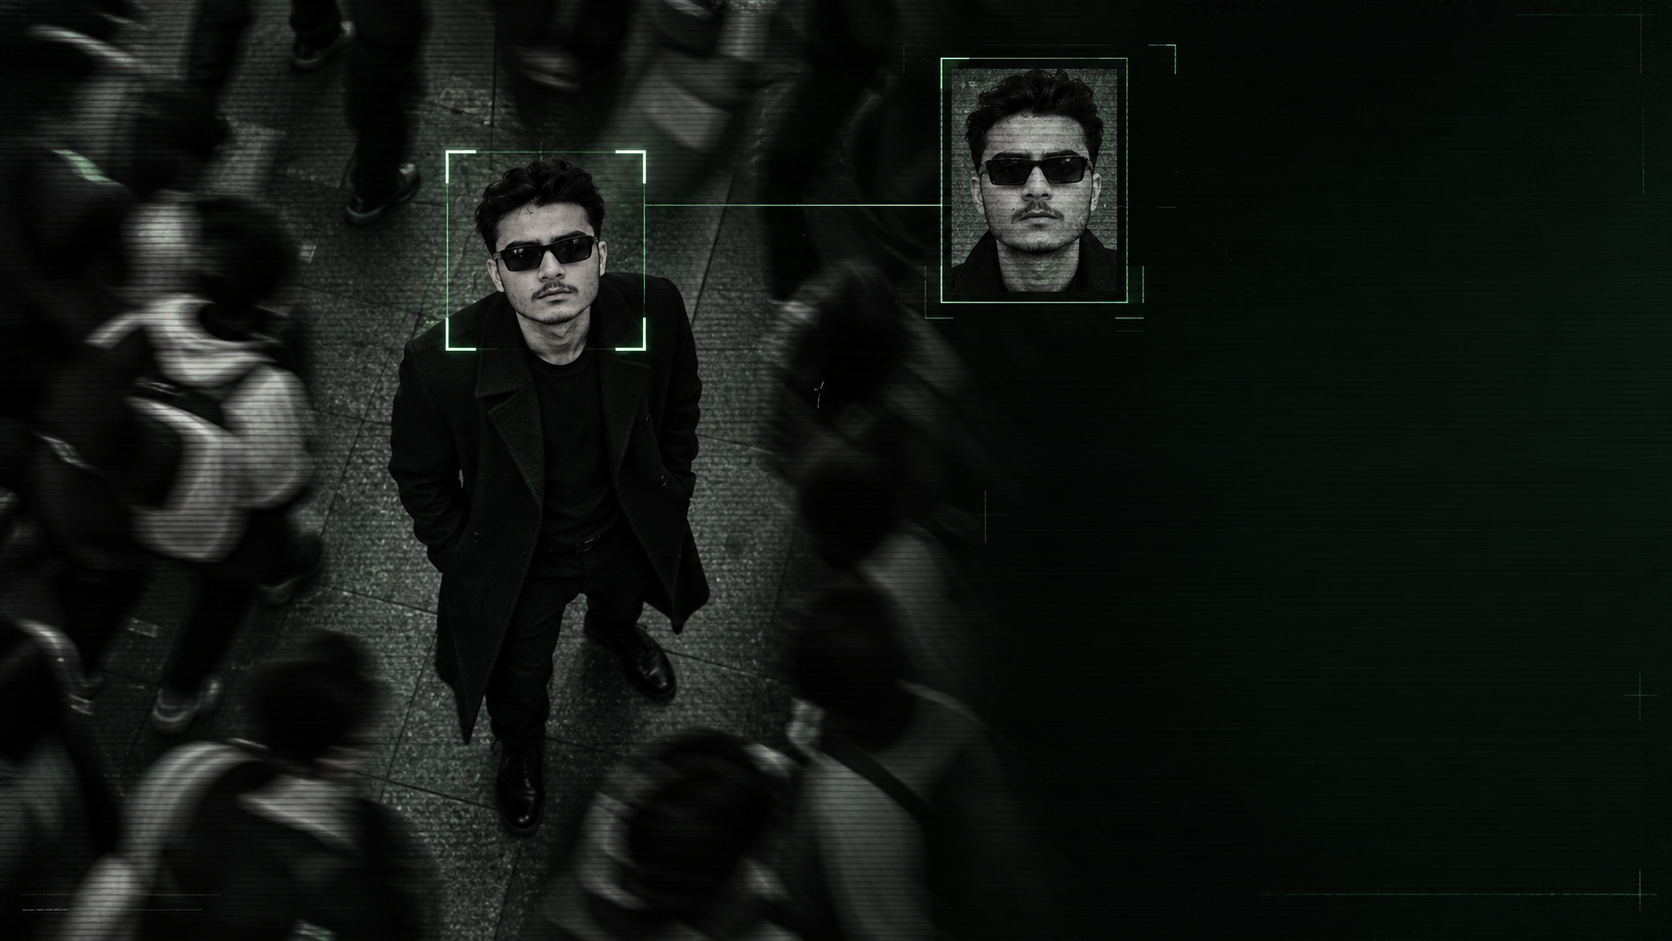
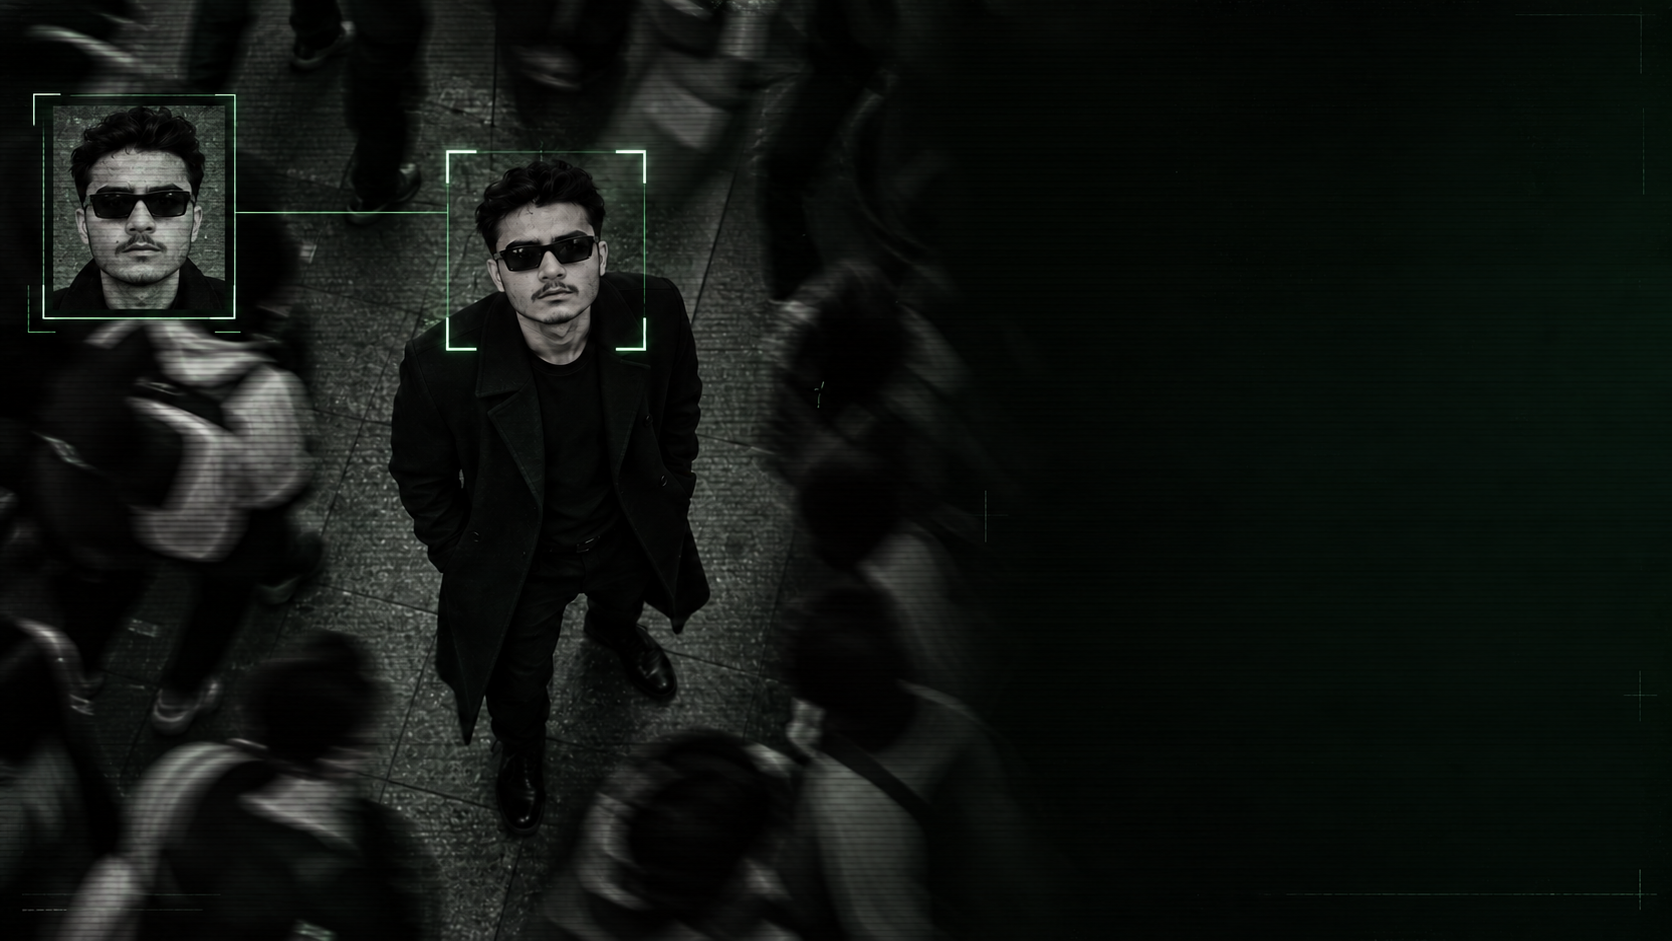
fixed some divs

Changed region(s): [[0.0311, 0.0925, 0.1866, 0.3698], [0.5598, 0.0616, 0.6842, 0.339]]

diff --git a/src/app/projects/ProjectsView.tsx b/src/app/projects/ProjectsView.tsx
@@ -65,29 +65,55 @@ export default function ProjectsView({ variant }: { variant: "desktop" | "mobile
   const [selectedId, setSelectedId] = useState<string | null>(null);
   const selected = projects.find((p) => p.id === selectedId) ?? null;
 
-  return (
-    <div className={variant === "desktop" ? styles.listWrap : styles.mobileListWrap}>
-      {variant === "desktop" && <p className={styles.listEyebrow}>Case files</p>}
+  return variant === "desktop" ? (
+  <div className={styles.desktopLayer}>
+    <div className={styles.listWrap}>
+      <p className={styles.listEyebrow}>Case files</p>
       <ul className={styles.list}>
         {projects.map((project) => (
           <li key={project.id}>
             <button
-              className={`${styles.listItem} ${selectedId === project.id ? styles.listItemActive : ""}`}
-              onClick={() => setSelectedId(selectedId === project.id ? null : project.id)}
+              className={`${styles.listItem} ${
+                selectedId === project.id ? styles.listItemActive : ""
+              }`}
+              onClick={() =>
+                setSelectedId(selectedId === project.id ? null : project.id)
+              }
               aria-expanded={selectedId === project.id}
             >
               {project.name}
             </button>
-            {variant === "mobile" && selectedId === project.id && (
-              <ProjectDetail project={project} onClose={() => setSelectedId(null)} />
-            )}
           </li>
         ))}
       </ul>
-
-      {variant === "desktop" && selected && (
-        <ProjectDetail project={selected} onClose={() => setSelectedId(null)} />
-      )}
     </div>
-  );
+
+    {selected && (
+      <ProjectDetail project={selected} onClose={() => setSelectedId(null)} />
+    )}
+  </div>
+) : (
+  <div className={styles.mobileListWrap}>
+    <ul className={styles.list}>
+      {projects.map((project) => (
+        <li key={project.id}>
+          <button
+            className={`${styles.listItem} ${
+              selectedId === project.id ? styles.listItemActive : ""
+            }`}
+            onClick={() =>
+              setSelectedId(selectedId === project.id ? null : project.id)
+            }
+            aria-expanded={selectedId === project.id}
+          >
+            {project.name}
+          </button>
+          {selectedId === project.id && (
+            <ProjectDetail project={project} onClose={() => setSelectedId(null)} />
+          )}
+        </li>
+      ))}
+    </ul>
+  </div>
+);
 }

diff --git a/src/data/contact.ts b/src/data/contact.ts
@@ -8,7 +8,7 @@ export type ContactLink = {
 };
 
 export const contactLinks: ContactLink[] = [
-  { id: "email", label: "Email", url: "abhayjeetsharma@outlook.com" }, // e.g. "mailto:you@example.com"
+  { id: "email", label: "Email", url: "mailto:abhayjeetsharma@outlook.com" }, // e.g. "mailto:you@example.com"
   { id: "github", label: "GitHub", url: "https://github.com/Abhayjeet-Sharma" }, // e.g. "https://github.com/yourhandle"
   { id: "linkedin", label: "LinkedIn", url: "https://www.linkedin.com/in/abhayjeet-sharma" }, // e.g. "https://linkedin.com/in/yourhandle"
   { id: "resume", label: "Resume", url: "/TheBestestCV.pdf" }, // e.g. "/resume.pdf"

diff --git a/src/app/about/about.module.css b/src/app/about/about.module.css
@@ -9,9 +9,10 @@
 .dossier {
   position: absolute;
   top: 50%;
-  right: 15%;
+  right: 1%;
   transform: translateY(-50%);
-  width: 44%;
+  width: 45%;
+  height:90%;
   min-width: 260px;
   padding: 1.6rem 1.7rem;
   background: rgba(3, 8, 5, 0.6);
@@ -46,7 +47,7 @@
   font-size: 0.9rem;
   line-height: 1.7;
   color: var(--ink);
-  max-width: 46ch;
+  width: 100%;
 }
 
 .fields {
